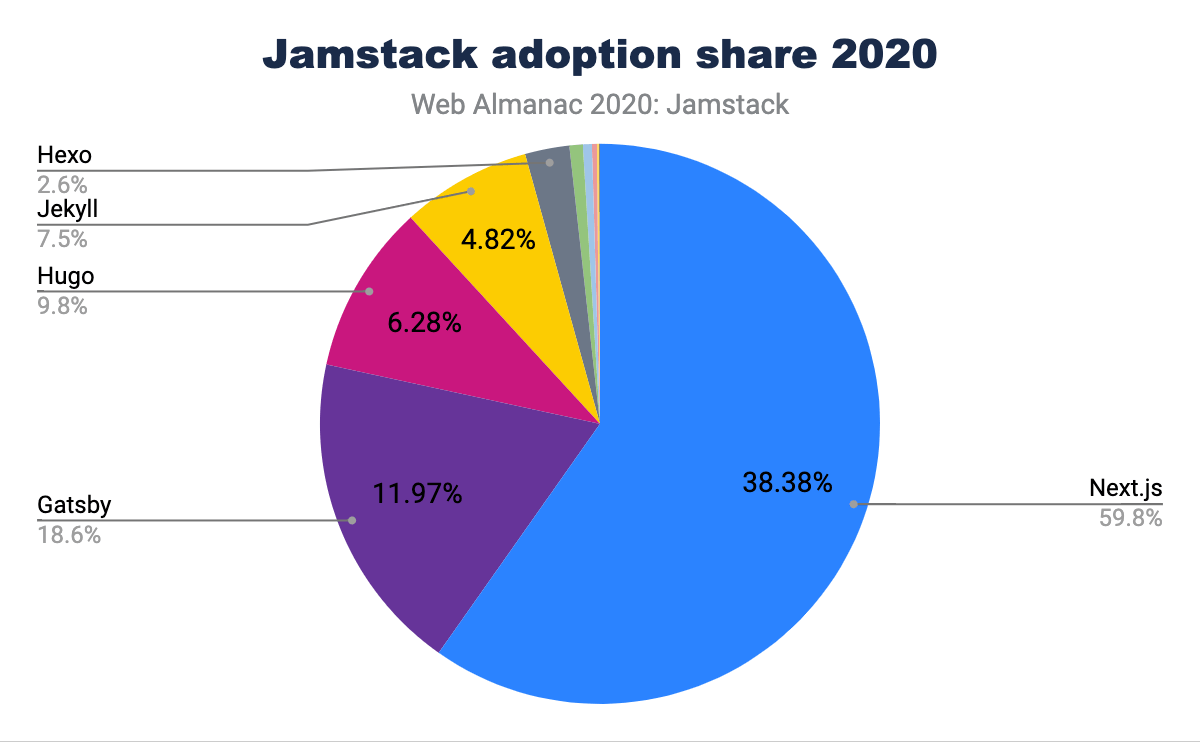
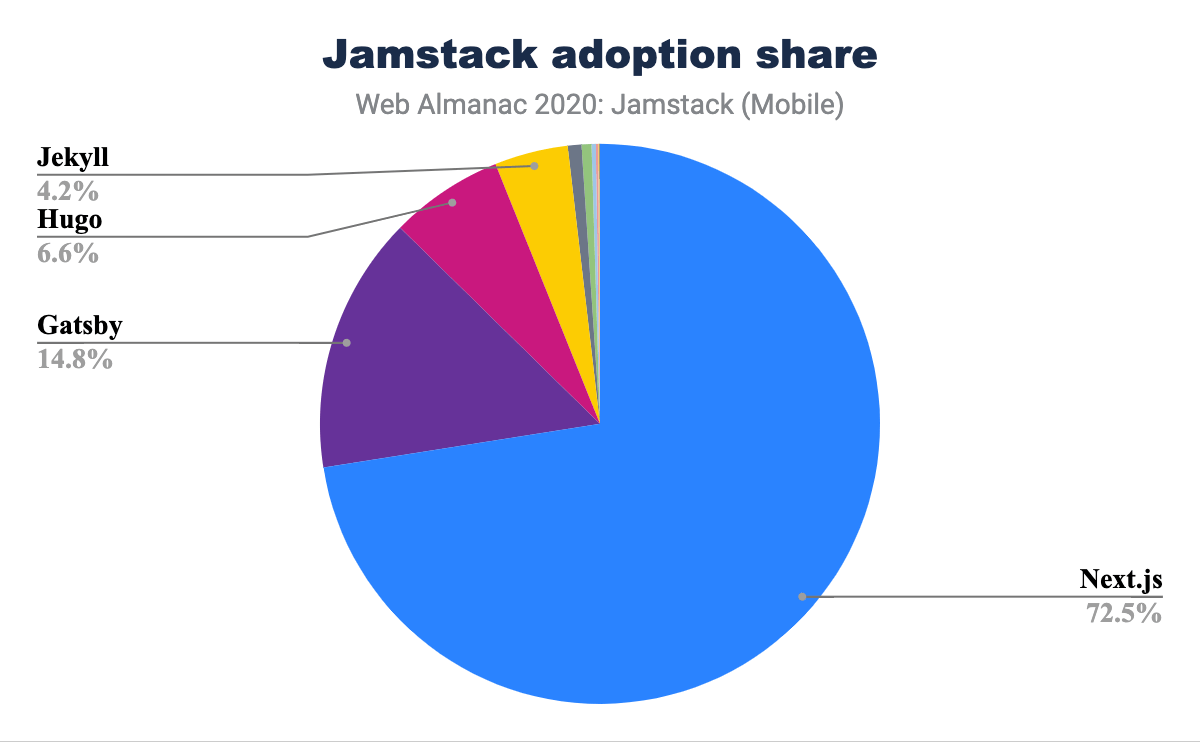
Copy edit Jamstack chapter

diff --git a/src/content/en/2020/jamstack.md b/src/content/en/2020/jamstack.md
@@ -1,5 +1,4 @@
 ---
-#See https://github.com/HTTPArchive/almanac.httparchive.org/wiki/Authors'-Guide#metadata-to-add-at-the-top-of-your-chapters
 part_number: III
 chapter_number: 17
 title: Jamstack
@@ -23,13 +22,15 @@ featured_stat_label_3: Jamstack sites built using Next.js
 
 ## Introduction
 
-Jamstack is a relatively new concept of an architecture designed to make the web faster, more secure, and easier to scale. It builds on many of the tools & workflows which developers love and which bring maximum productivity.
+Jamstack is a relatively new concept of an architecture designed to make the web faster, more secure, and easier to scale. It builds on many of the tools and workflows which developers love, and which maximizes productivity.
 
 The core principles of Jamstack are pre-rendering your site pages and decoupling the frontend from the backend. It relies on the idea of delivering the frontend content hosted separately on a CDN provider that uses APIs (for example, a headless CMS) as its backend if any.
 
-The [HTTP Archive](https://httparchive.org/) crawls [millions of pages](https://httparchive.org/reports/state-of-the-web#numUrls) every month and runs them through a private instance of [WebPageTest](https://webpagetest.org/) to store key information on every page. (You can learn more about this in our [methodology](./methodology)). In the context of Jamstack, HTTP Archive provides extensive information on the usage of the frameworks and CDNs for the entire web. This chapter consolidates and analyzes many of these trends.
+The [HTTP Archive](https://httparchive.org/) crawls [millions of pages](https://httparchive.org/reports/state-of-the-web#numUrls) every month and runs them through a private instance of [WebPageTest](https://webpagetest.org/) to store key information on every page crawled. You can learn more about this in our [methodology](./methodology) page. In the context of Jamstack, HTTP Archive provides extensive information on the usage of the frameworks and CDNs for the entire web. This chapter consolidates and analyzes many of these trends.
 
-The goals of this chapter are to estimate and analyze the growth of the Jamstack sites, the performance of popular Jamstack frameworks, as well as an analysis of real user experience using the Core Web Vitals metadata.
+The goals of this chapter are to estimate and analyze the growth of the Jamstack sites, the performance of popular Jamstack frameworks, as well as an analysis of real user experience using the Core Web Vitals metrics.
+
+<p class="note">It should be noted that our analysis is limited by those Jamstacks that make themselves easily identifiable using <a href="./methodology#wappalyzer">Wappalyzer</a>. This means our data does not include some popular Jamstacks like <a href="https://github.com/11ty/eleventy/">Eleventy</a> which <a href="https://twitter.com/eleven_ty/status/1334225624110608387?s=20">make a deliberate choice to not make themselves identifiable</a>. While we would ideally include all Jamstacks, we believe there is still plenty of value in analyzing the significant data we do have.</p>
 
 ## Adoption of Jamstack
 
@@ -45,77 +46,169 @@ Our analysis throughout this work looks at desktop and mobile websites. The vast
   )
 }}
 
-More than 0.7% of web pages are powered by Jamstack, an increase of over 79% from 2019. This breaks down to 0.72% on desktop, up from 0.40%  in 2019, and 0.68% on mobile, up from 0.27% in 2019. We believe this is a sign of the steady growth of the Jamstack community. You can read more about ours on the [Methodology][4] page.
+More than 0.7% of web pages are powered by Jamstack and breaks down to 0.72% on desktop, up from 0.40% in 2019, and 0.68% on mobile, up from 0.27% in 2019.
 
-<figure markdown>
-
-|   Year   | Desktop | Mobile |
-| -------- | ------- | ------ |
-| 2019     | 0.40%   | 0.27%  |
-| 2020     | 0.72%   | 0.68%  |
-| % Change | 79%     | 154%   |
-
-<figcaption>{{ figure_link(caption="Jamstack adoption statistics.", sheets_gid="908645975", sql_file="ssg_compared_to_2019.sql") }}</figcaption>
+<figure>
+  <table>
+    <thead>
+      <tr>
+        <th>Year</th>
+        <th>Desktop</th>
+        <th>Mobile</th>
+      </tr>
+    </thead>
+    <tbody>
+      <tr>
+        <td>2019</td>
+        <td class="numeric">0.40%</td>
+        <td class="numeric">0.27%</td>
+      </tr>
+      <tr>
+        <td>2020</td>
+        <td class="numeric">0.72%</td>
+        <td class="numeric">0.68%</td>
+      </tr>
+      <tr>
+        <td>% Change</td>
+        <td class="numeric">79%</td>
+        <td class="numeric">154%</td>
+      </tr>
+    </tbody>
+  </table>
+  <figcaption>{{ figure_link(caption="Jamstack adoption statistics.", sheets_gid="908645975", sql_file="ssg_compared_to_2019.sql") }}</figcaption>
 </figure>
 
-The increase in desktop web pages powered by a Jamstack framework is 79% from last year. On mobile, this increase is almost two folds, at 154%. This is a significant growth from 2019, especially for mobile pages.
+The increase in desktop web pages powered by a Jamstack framework is 79% from last year. On mobile, this increase is almost two folds, at 154%. This is a significant growth from 2019, especially for mobile pages. We believe this is a sign of the steady growth of the Jamstack community.
 
-## Jamstack YoY Growth
+## Jamstack frameworks
 
-Our analysis counted 12 separate Jamstack frameworks. Only five frameworks had more than 1% share. Next.js, Gatsby, Hugo, Jekyll being the top contenders for the Jamstack market share.
+Our analysis counted 12 separate Jamstack frameworks. Only five frameworks had more than 1% share: Next.js, Gatsby, Hugo, Jekyll are the top contenders for the Jamstack market share.
 
-<p class="note">It should be noted that our analysis is limited by those Jamstacks that make themselves easily identified using [Wappalyzer](./methodology#wappalyzer). This means our data does not include some popular Jamstacks like [Eleventy](https://github.com/11ty/eleventy/) which [make a deliberate choice to not make themselves identifiable](https://twitter.com/eleven_ty/status/1334225624110608387?s=20). While we would ideally include all Jamstacks, we believe there is still plenty of value in analysing the significant data we do have.</p>
-
-<figure markdown>
-
-| Jamstack   | 2019   | 2020   | % change |
-| ---------- | ------ | ------ | -------- |
-| Next.js    | 17.91% | 38.38% | 114%     |
-| Gatsby     | 5.64%  | 11.97% | 112%     |
-| Hugo       | 5.40%  | 6.28%  | 16%      |
-| Jekyll     | 4.33%  | 4.82%  | 11%      |
-| Hexo       | 1.51%  | 1.65%  | 9%       |
-| Gridsome   | 0.08%  | 0.49%  | 555%     |
-| Octopress  | 0.61%  | 0.33%  | -45%     |
-| Pelican    | 0.25%  | 0.18%  | -28%     |
-| VuePress   |        | 0.09%  |          |
-| Phenomic   | 0.05%  | 0.02%  | -51%     |
-| Saber      |        | 0.01%  |          |
-
-<figcaption>{{ figure_link(caption="Relative % adoption of Jamstack frameworks (0.01% - 38.38% adoption share)", sheets_gid="364341150", sql_file="ssg_compared_to_2019.sql") }}</figcaption>
-</figure>
-
-In 2020, most of the Jamstack market share seems distributed between the top four frameworks. Interestingly, Next.js has a 38% usage share. This is over three times the share of the next most popular Jamstack framework, Gatsby.
+In 2020, most of the Jamstack market share seems distributed between the top four frameworks. Interestingly, Next.js has 72.5% usage share. This is nearly five times the share of the next most popular Jamstack framework, Gatsby at just under 15%!
 
 {{ figure_markup(
-  image="jamstack-adoption-share-2020.png",
-  caption="Jamstack adoption share 2020.",
-  description="Adoption share of the top-five Jamstack frameworks dominated by Next.js taking three times the share of 38% then the next most popular one, Gatsby with ~12% share.",
+  image="jamstack-adoption-share-2020-pie.png",
+  caption="Jamstack adoption share pie chart 2020.",
+  description="Pie chart showing the adoption of Jamstack frameworks dominated by Next.js taking nearly three quarters of the share at 72.5% then the next most popular one, Gatsby with 14.8% share, followed by Hugo at 6.6%, Jekyll at 4.2% and then smaller wedges not labelled.",
+  chart_url="https://docs.google.com/spreadsheets/d/e/2PACX-1vQ-zBygubF5NuAXOGScVLhnozB_6Pi_0z4B57cP_I6AfeBuZCGzs3aP_1nPjPp37aNRATRYC6EfOeYX/pubchart?oid=115327297&amp;format=interactive",
+  sheets_gid="364341150",
+  sql_file="ssg_compared_to_2019.sql"
+  )
+}}
+
+### Framework adoption changes
+
+Looking at the year on year growth, we see that Next.js has increased its lead over its competitors in the last year:
+
+<figure>
+  <table>
+    <thead>
+      <tr>
+        <th>Jamstack</th>
+        <th>2019</th>
+        <th>2020</th>
+        <th>% change</th>
+      </tr>
+    </thead>
+    <tbody>
+      <tr>
+        <td>Next.js</td>
+        <td class="numeric">61.06%</td>
+        <td class="numeric">72.51%</td>
+        <td class="numeric">19%</td>
+      </tr>
+      <tr>
+        <td>Gatsby</td>
+        <td class="numeric">15.87%</td>
+        <td class="numeric">14.84%</td>
+        <td class="numeric">-6%</td>
+      </tr>
+      <tr>
+        <td>Hugo</td>
+        <td class="numeric">12.12%</td>
+        <td class="numeric">6.56%</td>
+        <td class="numeric">-46%</td>
+      </tr>
+      <tr>
+        <td>Jekyll</td>
+        <td class="numeric">7.92%</td>
+        <td class="numeric">4.24%</td>
+        <td class="numeric">-46%</td>
+      </tr>
+      <tr>
+        <td>Hexo</td>
+        <td class="numeric">1.48%</td>
+        <td class="numeric">0.79%</td>
+        <td class="numeric">-46%</td>
+      </tr>
+      <tr>
+        <td>Gridsome</td>
+        <td class="numeric">0.25%</td>
+        <td class="numeric">0.57%</td>
+        <td class="numeric">133%</td>
+      </tr>
+      <tr>
+        <td>Octopress</td>
+        <td class="numeric">0.78%</td>
+        <td class="numeric">0.24%</td>
+        <td class="numeric">-69%</td>
+      </tr>
+      <tr>
+        <td>Pelican</td>
+        <td class="numeric">0.39%</td>
+        <td class="numeric">0.14%</td>
+        <td class="numeric">-65%</td>
+      </tr>
+      <tr>
+        <td>VuePress</td>
+        <td></td>
+        <td class="numeric">0.06%</td>
+        <td></td>
+      </tr>
+      <tr>
+        <td>Phenomic</td>
+        <td class="numeric">0.13%</td>
+        <td class="numeric">0.03%</td>
+        <td class="numeric">-78%</td>
+      </tr>
+      <tr>
+        <td>Saber</td>
+        <td></td>
+        <td class="numeric">0.01%</td>
+        <td></td>
+      </tr>
+      <tr>
+        <td>Cecil</td>
+        <td class="numeric">0.01%</td>
+        <td></td>
+        <td></td>
+      </tr>
+    </tbody>
+  </table>
+  <figcaption>{{ figure_link(caption="Relative % adoption of Jamstack frameworks", sheets_gid="364341150", sql_file="ssg_compared_to_2019.sql") }}</figcaption>
+</figure>
+
+And concentrating on the top 5 Jamstacks further shows Next.js's lead:
+
+{{ figure_markup(
+  image="jamstack-adoption-share-yoy.png",
+  caption="Jamstack adoption share year on year.",
+  description="Adoption share of the top-five Jamstack frameworks and their change from 2019 to 2020. Next.js has increase from 61.06% to 72.51%. The rest are much smaller, led by Gatsby which has shrunk slightly from 15.87% to 14.84%, followed by Hugo which has nearly halved from 12.12% to 6.56%, then Jekyll which has shrunk from 7.92% to 4.24%, and finally Hexo has fallen from 1.48% to 0.79%.",
   chart_url="https://docs.google.com/spreadsheets/d/e/2PACX-1vQ-zBygubF5NuAXOGScVLhnozB_6Pi_0z4B57cP_I6AfeBuZCGzs3aP_1nPjPp37aNRATRYC6EfOeYX/pubchart?oid=1357804382&format=interactive",
   sheets_gid="364341150",
   sql_file="ssg_compared_to_2019.sql"
   )
 }}
 
-It's worth noting here the fact that Next.js websites include a mix of both Statically Generated Sites (SSG) pages and Server Side Rendered (SSR) pages. This is due to the lack of our ability to measure them separately. This means that the analysis may include sites that are mostly or partially server-rendered, meaning they do not fall under the traditional definition of a Jamstack site. Nonetheless, it appears that this hybrid nature of Next.js gives it a competitive advantage over other frameworks hence making it more popular.
-
-{{ figure_markup(
-  image="jamstack-adoption-share-2020-pie.png",
-  caption="Jamstack adoption share pi chart 2020.",
-  description="Pie chart showing the adoption of Jamstack frameworks dominated by Next.js taking three times the share of 38% then the next most popular one, Gatsby with ~12% share.",
-  chart_url="https://docs.google.com/spreadsheets/d/e/2PACX-1vQ-zBygubF5NuAXOGScVLhnozB_6Pi_0z4B57cP_I6AfeBuZCGzs3aP_1nPjPp37aNRATRYC6EfOeYX/pubchart?oid=115327297&format=interactive",
-  sheets_gid="364341150",
-  sql_file="ssg_compared_to_2019.sql"
-  )
-}}
+It's worth noting here the fact that Next.js websites include a mix of both Static Site Generated (SSG) pages and Server-Side Rendered (SSR) pages. This is due to the lack of our ability to measure them separately. This means that the analysis may include sites that are mostly or partially server-rendered, meaning they do not fall under the traditional definition of a Jamstack site. Nonetheless, it appears that this hybrid nature of Next.js gives it a competitive advantage over other frameworks hence making it more popular.
 
 ## Environmental impact
 
-This year we have sought to better understand the impact of Jamstack sites on the environment. [The information and communications technology (ICT) industry accounts for 2% of global carbon emissions](https://www.nature.com/articles/d41586-018-06610-y), and data centers specifically account for 0.3% of global carbon emissions. This puts the ICT industry’s carbon footprint equivalent to the aviation industry’s emissions from fuel.
+This year we have sought to better understand the impact of Jamstack sites on the environment. [The information and communications technology (ICT) industry accounts for 2% of global carbon emissions](https://www.nature.com/articles/d41586-018-06610-y), and data centers specifically account for 0.3% of global carbon emissions. This puts the ICT industry's carbon footprint equivalent to the aviation industry's emissions from fuel.
 
 Jamstack is often credited for being mindful of performance. In the next section, we look into the carbon emissions of Jamstack websites.
 
-### Page Weight
+### Page weight
 
 Our research looked at the average Jamstack page weight in KB and mapped this to CO2 emissions using logic from the [Carbon API](https://gitlab.com/wholegrain/carbon-api-2-0/-/blob/master/includes/carbonapi.php#L342). This generated the following results, split by desktop and mobile:
 
@@ -131,7 +224,7 @@ Our research looked at the average Jamstack page weight in KB and mapped this to
 
 We found that the median Jamstack page load resulted in the transfer of 1.5 MB of various assets and thus the emission of 1.1 grams of CO2 for desktop and 0.9 grams for mobile. This was the same for desktop and mobile. The most efficient percentile of Jamstack web pages result in the generation of at least one third less CO2 than the median, whilst the least efficient percentile of Jamstack web pages goes the other way, generating around four times more.
 
-Page weights are important here. The average desktop Jamstack web page loads 1.5 MB of video, image, script, font, CSS, and audio data. 10% of pages, however, load over 4 MB of this data. On mobile devices, the average web page loads 0.7 MB fewer than on desktop, a fact consistent across all percentiles.
+[Page weights](./page-weight) are important here. The average desktop Jamstack web page loads 1.5 MB of video, image, script, font, CSS, and audio data. 10% of pages, however, load over 4 MB of this data. On mobile devices, the average web page loads 0.7 MB fewer than on desktop, a fact consistent across all percentiles.
 
 ### Image formats
 
@@ -147,45 +240,39 @@ Popular image formats are PNG, JPG, GIF, SVG, WebP, and ICO. Of these, [WebP is 
   )
 }}
 
-### Third-Party Bytes
+### Third-party bytes
 
-Jamstack sites often load third party resources, such as external images, videos, scripts, or stylesheets:
+Jamstack sites, like most websites, often load [third-party](./third-party) resources, such as external images, videos, scripts, or stylesheets:
 
 {{ figure_markup(
   image="jamstack-third-party-bytes.png",
   caption="Third party bytes.",
-  description="Bar chart showing the amount of third party bytes (in KB) for each percentile for Jamstack pages. At the 10th percentile it is 44.64 KB for desktop and 66.69 for mobile, at the 25th percentile it is 150.63 KB for mobile and 245.78 KB for mobile, at the 50% it's 506.27 KB for desktop and 823.56 KB for mobile, at the 75th percentile 1,340.39 KB for desktop and 1,989.24 for mobile and at the 90th percentile it is 3,169.14 KB for desktop and 3,290.07 for mobile.",
+  description="Bar chart showing the amount of third-party bytes (in KB) for each percentile for Jamstack pages. At the 10th percentile it is 45 KB for desktop and 667 KB for mobile, at the 25th percentile it is 151 KB for mobile and 246 KB for mobile, at the 50% it's 506 KB for desktop and 824 KB for mobile, at the 75th percentile 1,340 KB for desktop and 1,989 for mobile and at the 90th percentile it is 3,169 KB for desktop and 3,290 KB for mobile.",
   chart_url="https://docs.google.com/spreadsheets/d/e/2PACX-1vQ-zBygubF5NuAXOGScVLhnozB_6Pi_0z4B57cP_I6AfeBuZCGzs3aP_1nPjPp37aNRATRYC6EfOeYX/pubchart?oid=1779247936&format=interactive",
   sheets_gid="1292933800",
   sql_file="third_party_bytes_and_requests_on_ssgs.sql"
   )
 }}
 
-We find that the median desktop Jamstack page has 28 third party requests with 506 KB of content, with the mobile equivalent generating 46 requests with 824 KB of content. Whereas 10% of the desktop sites have 132 requests with 3.1MB of content which is only superseded by 168 requests on mobile with 3.2MB of content.
+We find that the median desktop Jamstack page has 28 third-party requests with 506 KB of content, with the mobile equivalent generating 46 requests with 824 KB of content. Whereas 10% of the desktop sites have 132 requests with 3.1MB of content which is only superseded by 168 requests on mobile with 3.2MB of content.
 
 ## User experience
 
-Jamstack websites are often said to offer a good user experience. It's what the entire concept of separating the frontend from the backend and hosting it on the CDN edge is all about. We aim to shed light on real-world user experience when using Jamstack websites. It's what we call, the [Core Web Vitals](https://web.dev/learn-web-vitals/).
+Jamstack websites are often said to offer a good user experience. It's what the entire concept of separating the frontend from the backend and hosting it on the CDN edge is all about. We aim to shed light on real-world user experience when using Jamstack websites using the recently launched [Core Web Vitals](https://web.dev/learn-web-vitals/).
 
-In this section, we take a look at three important factors which can shed light on our understanding of how users are experiencing Jamstack pages in the wild:
+The Core Web Vitals are three important factors which can shed light on our understanding of how users are experiencing Jamstack pages in the wild:
 
 - Largest Contentful Paint (LCP)
 - First Input Delay (FID)
 - Cumulative Layout Shift (CLS)
 
-These metrics aim to cover the core elements which are indicative of a great web user experience. How about we take a look at the real-world Core Web Vitals statistics of the top-five Jamstack frameworks.
+These metrics aim to cover the core elements which are indicative of a great web user experience. Let's we take a look at the real-world Core Web Vitals statistics of the top-five Jamstack frameworks.
 
 ### Largest Contentful Paint
 
-Largest Contentful Paint (LCP) measures the point when the page’s main content has likely loaded and thus the page is useful to the user. It does this by measuring the render time of the largest image or text block visible within the viewport.  LCP is regarded as a good proxy for measuring when the main content of a page is loaded.
+Largest Contentful Paint (LCP) measures the point when the page's main content has likely loaded and thus the page is useful to the user. It does this by measuring the render time of the largest image or text block visible within the viewport.
 
 This is different from First Contentful Paint (FCP), which measures from page load until content such as text or an image is first displayed. LCP is regarded as a good proxy for measuring when the main content of a page is loaded.
-
-A “good” LCP is regarded as under 2.5 seconds. Hugo, Jekyll, and Hexo have impressive LCP scores all above 50% where Jekyll and Hugo on desktop went up to 91% and 85% on desktop, respectively. Whereas, Gatsby and Next.js sites lagged — scoring 52% and 38% on desktop and 36% and 23% on mobile.
-
-This might be attributed to the fact that most of the sites built with Next.js and Gatsby have complex layouts and high page weights; in comparison with Hugo and Jekyll which are primarily used to produce static content sites with fewer or no dynamic parts. Like you don't have to use React or any other JavaScript framework for what it's worth with Hugo or Jekyll.
-
-As we explored in the section above, high page weights can have a possible impact on the environment. However, this also affects LCP performance, which is either very good or generally bad depending on the Jamstack framework. This can have an impact on the real user experience as well.
 
 {{ figure_markup(
   image="jamstack-real-user-largest-contentful-paint-experiences.png",
@@ -197,13 +284,20 @@ As we explored in the section above, high page weights can have a possible impac
   )
 }}
 
+A "good" LCP is regarded as under 2.5 seconds. Hugo, Jekyll, and Hexo have impressive LCP scores all above 50% with Jekyll and Hugo on desktop at 91% and 85% on desktop respectively. Gatsby and Next.js sites lagged — scoring 52% and 38% respectively on desktop, and 36% and 23% on mobile.
+
+This might be attributed to the fact that most of the sites built with Next.js and Gatsby have complex layouts and high page weights, in comparison with Hugo and Jekyll which are primarily used to produce static content sites with fewer or no dynamic parts. For what it's worth, you don't have to use React or any other JavaScript framework with Hugo or Jekyll.
+
+As we explored in the section above, high page weights can have a possible impact on the environment. However, this also affects LCP performance, which is either very good or generally bad depending on the Jamstack framework. This can have an impact on the real user experience as well.
+
+
 ### First Input Delay
 
 First Input Delay (FID) measures the time from when a user first interacts with your site (i.e. when they click a link, tap on a button, or use a custom, JavaScript-powered control) to the time when the browser is actually able to respond to that interaction.
 
-A "fast" FID from a user's perspective would be immediate feedback from their actions on a site rather than a stalled experience. This delay (a pain point) could correlate with interference from other aspects of the site loading when the user tries to interact with the site.
+A "fast" FID from a user's perspective would provide immediate feedback from their actions on a site rather than a stalled experience. This delay is a pain point and could correlate with interference from other aspects of the site loading when the user tries to interact with the site.
 
-FID is extremely fast for the average Jamstack website on desktop – most popular frameworks score 100% – and mixed but above 80% on mobile. Most Jamstack websites deliver mobile FID on an average site within a reasonable range of the desktop score.
+FID is extremely fast for the average Jamstack website on desktop – most popular frameworks score 100% – and above 80% on mobile.
 
 {{ figure_markup(
   image="jamstack-real-user-first-input-delay-experiences.png",
@@ -215,9 +309,7 @@ FID is extremely fast for the average Jamstack website on desktop – most popul
   )
 }}
 
-The FID scores are generally very good here, but this does not translate to similar LCP scores. As suggested, the weight of individual pages on Jamstack sites in addition to mobile connection quality could play a role in the performance gaps that we see here.
-
-There is a small margin of difference between the resources shipped to desktop and mobile versions of a website. Last year we noted that optimizing for the mobile experience was necessary. Average scores have increased on desktop and mobile, but further attention to mobile experience is required here.
+There is a small margin of difference between the resources shipped to desktop and mobile versions of a website. The FID scores are generally very good here, but it is interesting this does not translate to similar LCP scores. As suggested, the weight of individual pages on Jamstack sites in addition to mobile connection quality could play a role in the performance gaps that we see here.
 
 ### Cumulative Layout Shift
 
@@ -235,20 +327,18 @@ A score of 0.1 or below is good, over 0.25 is poor, and anything in between need
   )
 }}
 
-The top-five Jamstack frameworks do average here. About 65% of web pages loaded by top-five Jamstack frameworks have a “good” CLS experience, with this figure rising to 82% on mobile. Across all the average desktop and mobile score is 65%. Next.js is barely reaching 50% which is the lowest of all and has work to do here. Educating developers and documenting how to avoid bad CLS scores can go a long way.
+The top-five Jamstack frameworks do OK here. About 65% of web pages loaded by top-five Jamstack frameworks have a "good" CLS experience, with this figure rising to 82% on mobile. Across all the average desktop and mobile score is 65%. Next.js is barely reaching 50% which is the lowest of all and has work to do here. Educating developers and documenting how to avoid bad CLS scores can go a long way.
 
 ## Conclusion
 
-Jamstack, both as a concept and a stack, has picked up importance in the last year. Stats suggest almost twice as many Jamstack sites exist now than in 2019. Developers enjoy a better development experience by separating the frontend from the backend (a headless CMS, serverless functions, or third party services). But what about the real-user experience of browsing Jamstack sites?
+Jamstack, both as a concept and a stack, has picked up importance in the last year. Stats suggest almost twice as many Jamstack sites exist now than in 2019. Developers enjoy a better development experience by separating the frontend from the backend (a headless CMS, serverless functions, or third-party services). But what about the real-user experience of browsing Jamstack sites?
 
-We’ve reviewed the adoption of Jamstack, user experience of websites created by these Jamstack frameworks, and for the first time looked at the impact of Jamstack on the environment. We have answered many questions here but leave further questions unanswered.
+We've reviewed the adoption of Jamstack, user experience of websites created by these Jamstack frameworks, and for the first time looked at the impact of Jamstack on the environment. We have answered many questions here but leave further questions unanswered.
 
-There are frameworks like Eleventy which we weren't able to measure or analyze since there is no pattern available to determine the usage of such frameworks, which has an impact on the data presented here. Next.js offers both Static Generation and Server Rendering, separating the two in this data is nearly impossible since it also offers incremental Static Generation. Further research building on this chapter will be gratefully received.
+There are frameworks like Eleventy which we weren't able to measure or analyze since there is no pattern available to determine the usage of such frameworks, which has an impact on the data presented here. Next.js dominates usage and offers both Static Site Generation and Server-Side Rendering, separating the two in this data is nearly impossible since it also offers incremental Static Generation. Further research building on this chapter will be gratefully received.
 
 Moreover, we have highlighted some areas which need attention from the Jamstack community. We hope there will be progress to share in the 2021 report. Different Jamstack frameworks can start to document how to improve real user experience by looking at Core Web Vitals.
 
-Vercel, one of the CDNs meant to host Jamstack sites, has built an analytics offering called [Real User Experience Score](https://vercel.com/docs/analytics#real-experience-score). While other performance measuring tools like [Lighthouse](https://web.dev/measure/) estimate your user's experience by running a simulation in a lab, Vercel's Real Experience Score is calculated using real data points collected from the devices of the actual users of your application.
+Vercel, one of the CDNs meant to host Jamstack sites, has built an analytics offering called [Real User Experience Score](https://vercel.com/docs/analytics#real-experience-score). While other performance measuring tools like [Lighthouse](https://web.dev/measure/) estimate your user's experience by running a simulation in a lab, Vercel's Real Experience Score is calculated using real data points collected from the devices of the actual users of your application. It is probably worth noting here that Vercel created and maintains Next.js, since Next.js had low LCP scores. This new offering could mean we can hope to see a marked improvement in those scores next year. This would be extremely helpful information for users and developers alike.
 
-Probably worth noting here that Vercel created and maintains Next.js, particularly since Next.js had low LCP scores. This could mean we can hope to see a marked improvement next year. This can be extremely helpful information for developers.
-
-Jamstack frameworks are improving the developer experience of building sites. Let’s work towards continued progress for improving the real-user experience of browsing Jamstack sites.
+Jamstack frameworks are improving the developer experience of building sites. Let's work towards continued progress for improving the real-user experience of browsing Jamstack sites.
